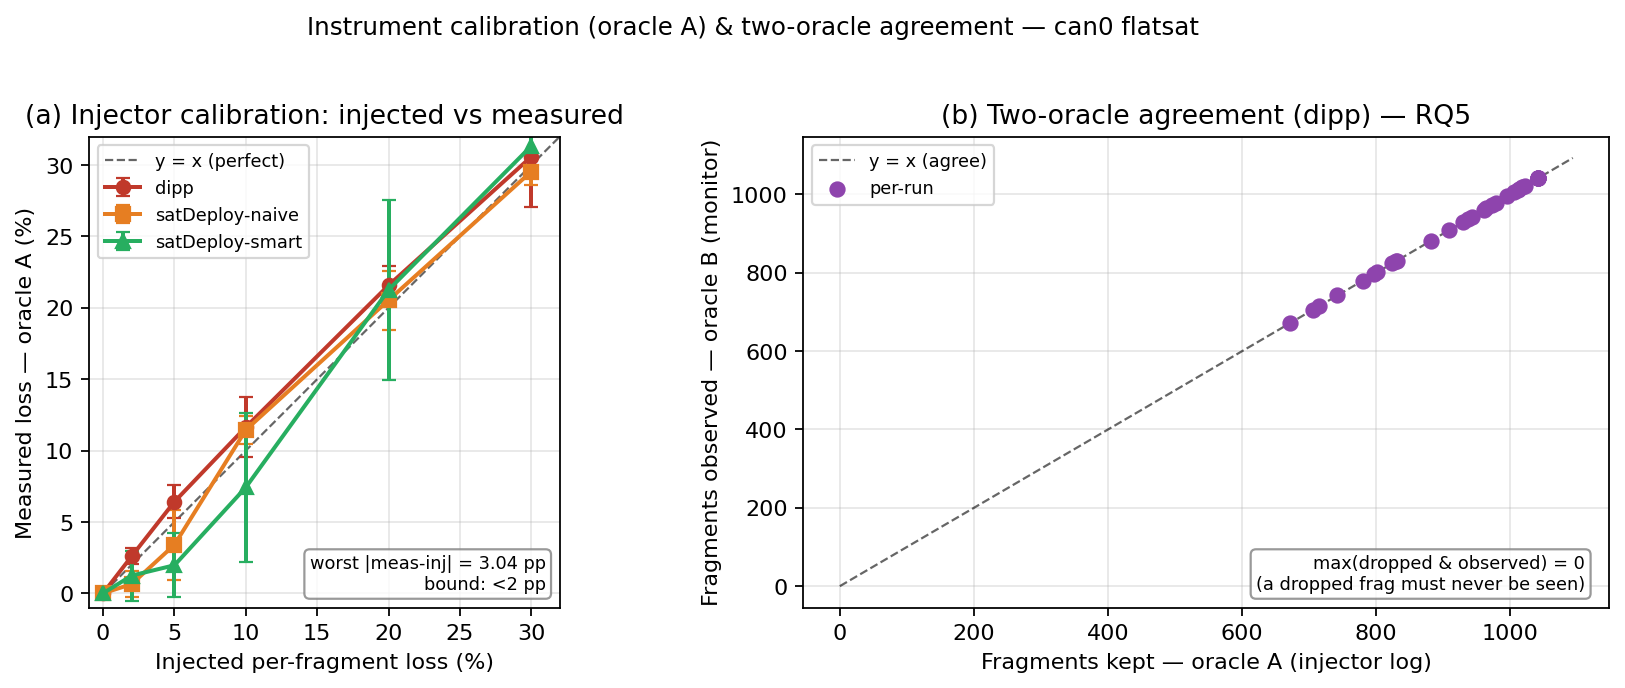
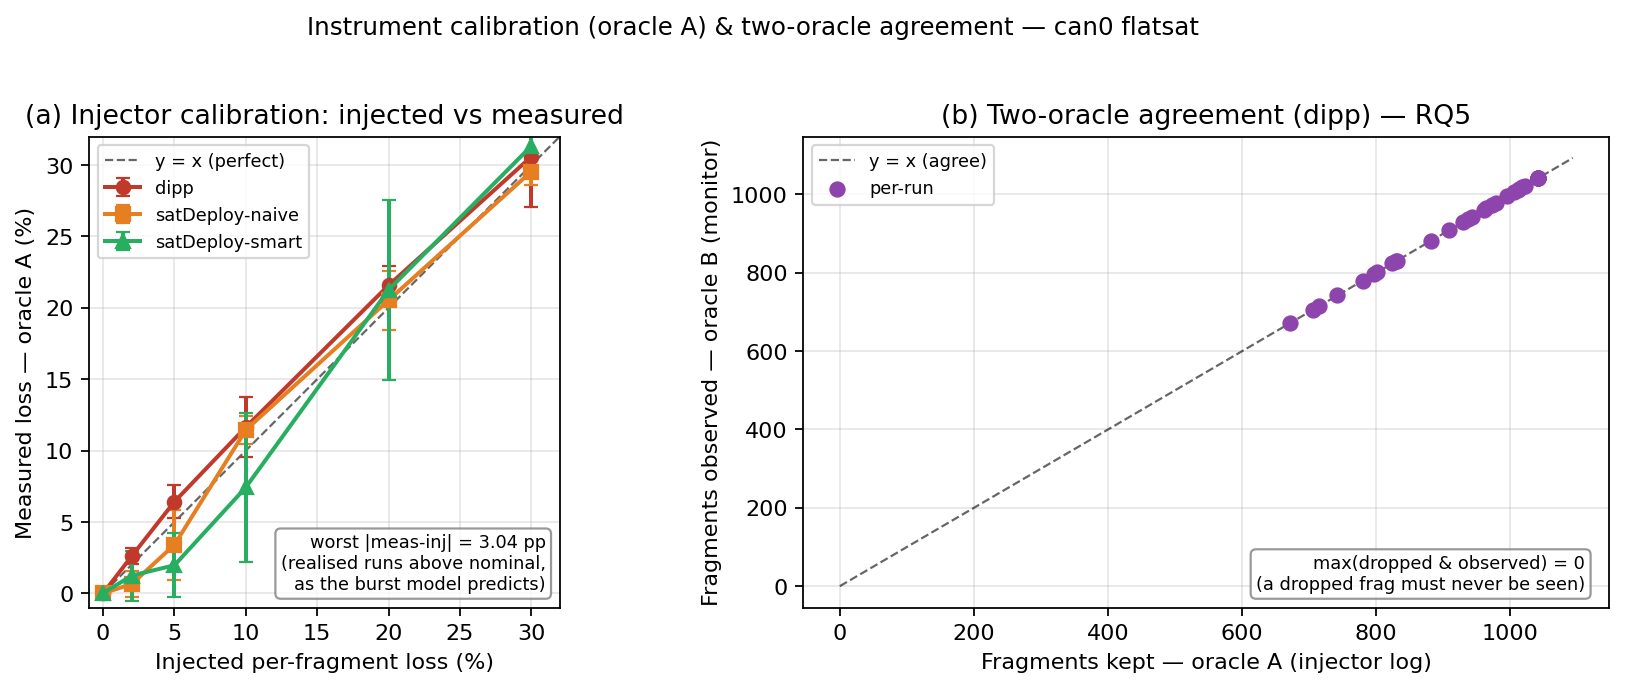
fix(calibration): retire the stale <2pp bound -- current data gives 3.0 pp worst
The figure annotated "bound: <2 pp" next to a measured worst of 3.04 pp: the
1.66pp/<2pp claim predates the August burst cells. The manuscript's calibration
section (chapter4_method, tab:calibration) never claimed the bound -- it explains
realised loss running above nominal as exactly what Gilbert-Elliott predicts,
largest in relative terms at low levels. Figure annotation and README now say
that instead. figures/ regenerated deterministically (new baseline).

Claude-Session: https://claude.ai/code/session_01WQWk8NAUSuHwQuazro9Ui4

Changed region(s): [[0.1538, 0.7631, 0.3385, 0.8852]]

diff --git a/scripts/plot_calibration.py b/scripts/plot_calibration.py
@@ -126,7 +126,7 @@ def main():
     ax1.grid(True, alpha=0.3)
     ax1.legend(loc="upper left", fontsize=8)
     ax1.text(0.97, 0.03,
-             f"worst |meas-inj| = {worst:.2f} pp\nbound: <2 pp",
+             f"worst |meas-inj| = {worst:.2f} pp\n(realised runs above nominal,\nas the burst model predicts)",
              transform=ax1.transAxes, ha="right", va="bottom", fontsize=8,
              bbox=dict(boxstyle="round", fc="white", ec="gray", alpha=0.8))
 

diff --git a/README.md b/README.md
@@ -29,7 +29,7 @@ figures in `figures/`):
 
 | Result | Evidence | Number |
 |--------|----------|--------|
-| **Calibration** — the injector drops exactly what it claims | `figures/calibration.*` | worst error 1.66 pp (under the 2 pp bound) |
+| **Calibration** — realised loss tracks the nominal level | `figures/calibration.*` | worst deviation 3.0 pp; realised runs *above* nominal, as the Gilbert–Elliott burst model predicts |
 | **H1** — fire-and-forget upload collapses under loss | `captures/dipp_sweep.csv` | completion 100% at 0% loss, **0% at any loss ≥2%** |
 | **RQ3 (headline)** — flight software silently accepts corruption | `captures/rq3_corruption.csv` | **25/25** lossy uploads delivered a corrupt file reported as success; **0/5** at zero loss |
 | **RQ4** — the cost of a real fix (sha256 verify-retry) | `captures/satdeploy_sweep.csv` | completes 0–30% loss at **≤1.7×** bytes |
@@ -126,7 +126,7 @@ scripts/bench dtp-host-sweep
 # Reliable vmem reference path (RDP + CRC32):
 scripts/bench rdp-host-sweep
 
-# SVU, the self-verifying uploader:
+# The manifest core (July era, standalone):
 scripts/bench satdeploy-core-host-sweep
 ```
 
@@ -224,7 +224,7 @@ diagnostic, named for what it does. **Provenance note:** the committed CSVs in
 ## What you gain from using it
 
 - **A go/no-go on your own stack:** does it silently accept a corrupt file under realistic loss?
-- **A trustworthy number, not a guess:** calibrated to under 2 pp, three oracles agree.
+- **A trustworthy number, not a guess:** calibration measured and plotted per arm, three oracles agree.
 - **A fair A/B between mechanisms:** the same seed replays a byte-identical drop pattern across
   two uploaders, so comparisons are clean.
 - **The cost of a fix:** does adding integrity checking help, and what does it cost in passes/bytes?
